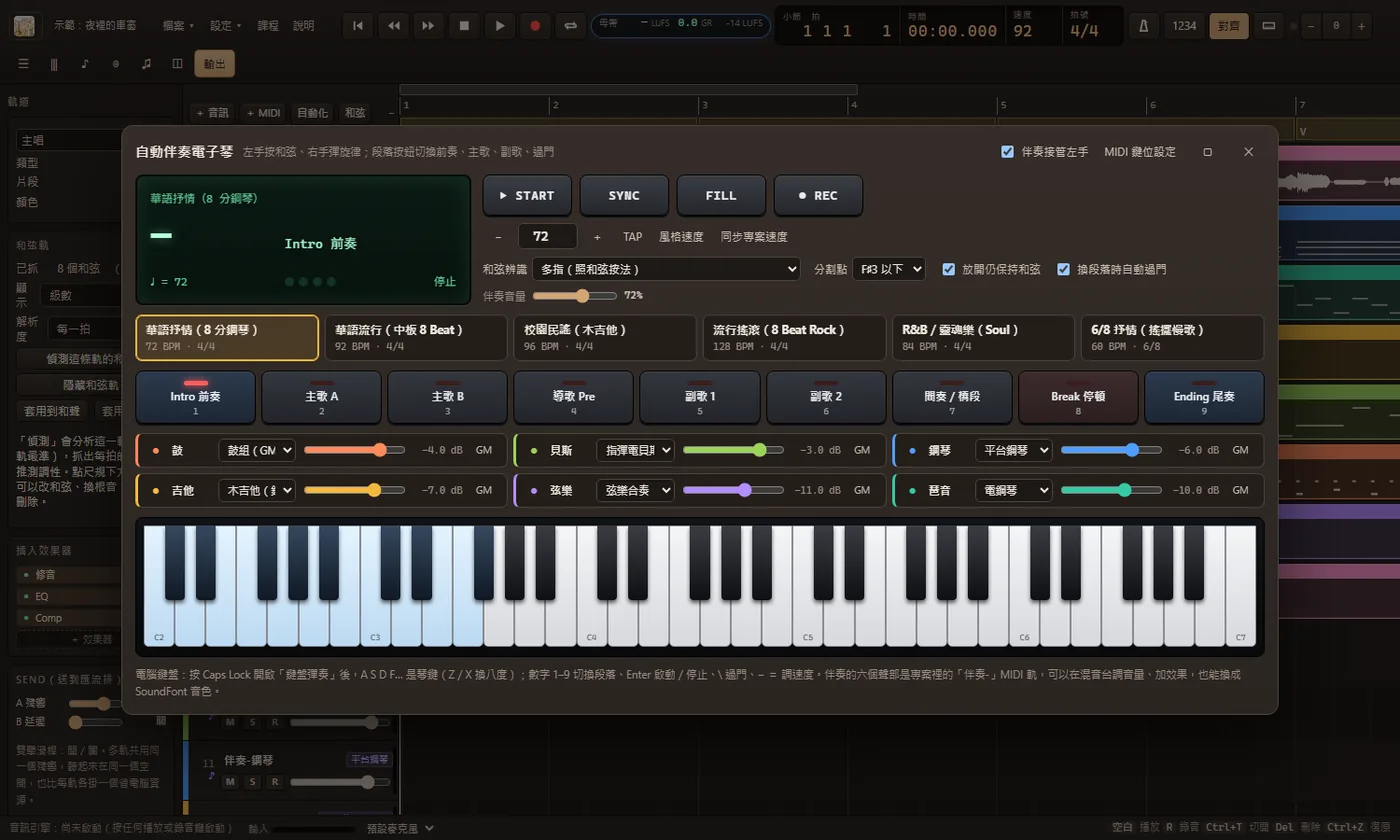
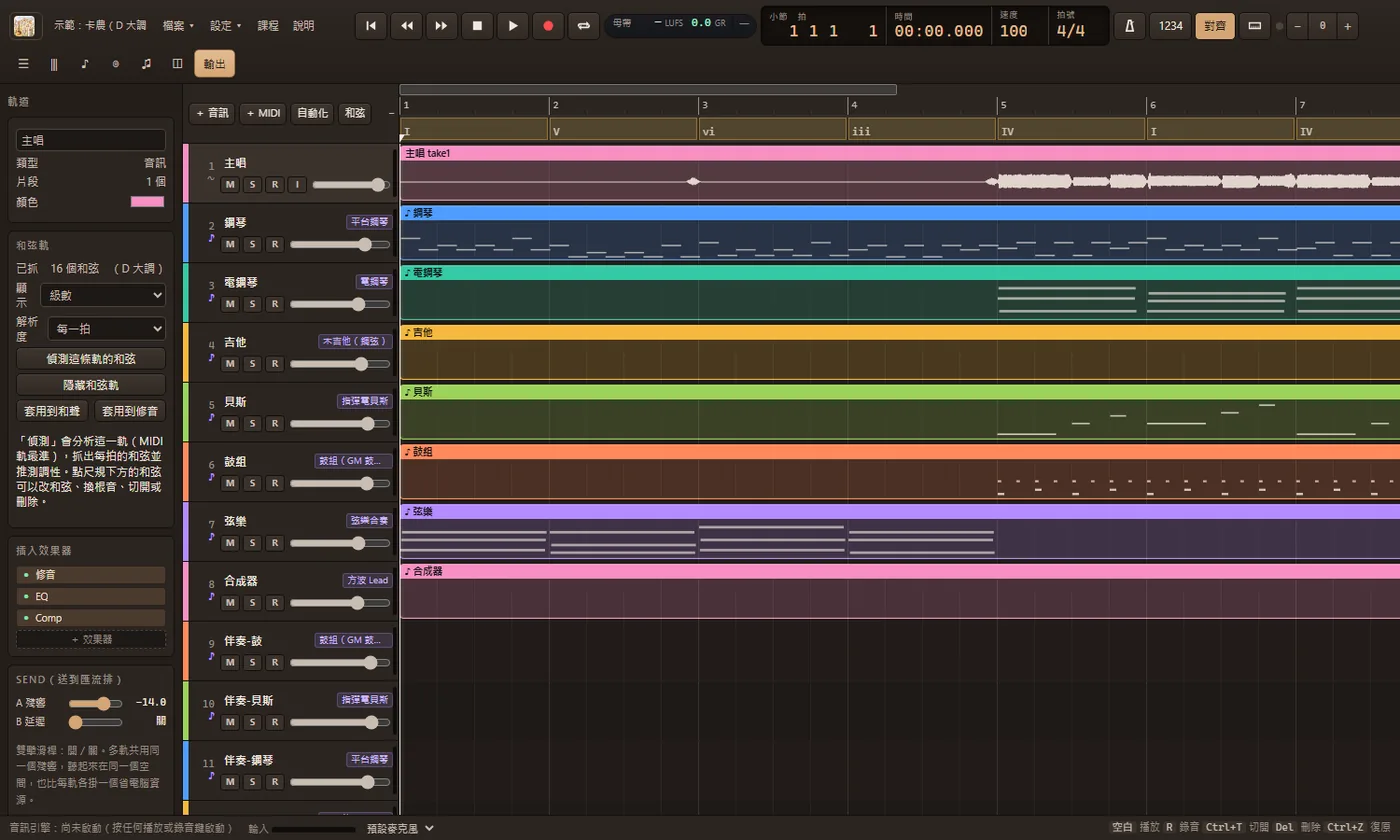
feat(daw): 示範曲改成卡農（公有領域）＋無詞人聲
- 和聲與低音取自 Pachelbel《Canon in D》（約 1680，公有領域）：
  D–A–Bm–F#m–G–D–G–A（卡農進行），16 小節、100 BPM
- 人聲唱固定低音動機往上兩個八度（D5 A4 B4 F#4 G4 D5 G4 A4）的無詞哼唱，
  沒有轉錄任何受保護的編曲或歌詞
- 編曲分四段：前奏（鋼琴分解＋弦樂）→ 主歌（人聲、貝斯、鼓）→
  副歌（吉他刷弦、合成器、16 分 hi-hat）→ 尾奏（收掉鼓與貝斯）
- 8 軌：主唱、鋼琴、電鋼琴、吉他、貝斯、鼓、弦樂、合成器；鼓與貝斯各掛壓縮
- makeVocalBuffer 可接受 melody spec（不傳就沿用原本的五聲旋律）
- 課程第 1、11 堂的示範說明與 8 張主圖同步更新

diff --git a/daw-studio/js/demo-project.js b/daw-studio/js/demo-project.js
@@ -30,24 +30,38 @@ function formantCoef(F, BW) {
   return { a0: 1 - b1 - b2, b1, b2 };
 }
 
-export function makeVocalBuffer(bpm) {
-  const beat = 60 / bpm, len = Math.floor(SR * beat * 4 * 8);
+// spec（可省略）：{ bars, notes:[{ t:拍, d:拍, midi, vowel?, cons? }] }
+// 省略時用原本的 Am–F–C–G 五聲旋律；卡農示範曲會傳自己的旋律進來。
+export function makeVocalBuffer(bpm, spec) {
+  const BARS = spec && spec.bars ? spec.bars : 8;
+  const beat = 60 / bpm, len = Math.floor(SR * beat * 4 * BARS);
   const b = new AudioBuffer({ numberOfChannels: 1, length: len, sampleRate: SR });
   const d = b.getChannelData(0);
 
-  // Am – F – C – G，每個和弦兩小節；旋律用五聲音階
-  const scale = [220, 261.63, 293.66, 329.63, 392, 440];
   const notes = [];
-  for (let bar = 0; bar < 8; bar++) {
-    for (let k = 0; k < 4; k++) {
-      const idx = bar * 4 + k;
-      notes.push({
-        t: (bar * 4 + k + (k === 2 ? 0.5 : 0)) * beat,
-        d: (k === 3 ? 1.4 : 0.9) * beat,
-        f: scale[(bar * 2 + k * 3) % scale.length],
-        vowel: 'aeoiuaoe'[idx % 8],
-        cons: ['m', '', 's', 't', 'n', '', 'sh', 'k'][idx % 8],
-      });
+  if (spec && Array.isArray(spec.notes) && spec.notes.length) {
+    // 指定的旋律（例如卡農的低音動機）：無詞哼唱，只用母音
+    spec.notes.forEach((m, idx) => notes.push({
+      t: m.t * beat,
+      d: m.d * beat,
+      f: 440 * Math.pow(2, (m.midi - 69) / 12),
+      vowel: m.vowel || 'aoeiu'[idx % 5],
+      cons: m.cons || '',
+    }));
+  } else {
+    // Am – F – C – G，每個和弦兩小節；旋律用五聲音階
+    const scale = [220, 261.63, 293.66, 329.63, 392, 440];
+    for (let bar = 0; bar < BARS; bar++) {
+      for (let k = 0; k < 4; k++) {
+        const idx = bar * 4 + k;
+        notes.push({
+          t: (bar * 4 + k + (k === 2 ? 0.5 : 0)) * beat,
+          d: (k === 3 ? 1.4 : 0.9) * beat,
+          f: scale[(bar * 2 + k * 3) % scale.length],
+          vowel: 'aeoiuaoe'[idx % 8],
+          cons: ['m', '', 's', 't', 'n', '', 'sh', 'k'][idx % 8],
+        });
+      }
     }
   }
   // 故意唱高 30 音分：修音單元需要「有東西可修」
@@ -65,7 +79,7 @@ export function makeVocalBuffer(bpm) {
     if (!n.cons) continue;
     events.push({ t: Math.max(0, n.t - CONS_DUR[n.cons]), dur: CONS_DUR[n.cons], kind: n.cons });
   }
-  for (let bar = 2; bar < 8; bar += 2) {           // 兩小節吸一次氣
+  for (let bar = 2; bar < BARS; bar += 2) {         // 兩小節吸一次氣
     const t = bar * 4 * beat - 0.2;
     if (t > 0) events.push({ t, dur: 0.22, kind: 'breath' });
   }
@@ -187,154 +201,158 @@ const chordNotes = (root, ivs, oct = 4) => ivs.map(iv => 12 * oct + ((root + iv)
 const hum = (v, amt = 6) => Math.max(1, Math.min(127, Math.round(v + (Math.random() * 2 - 1) * amt)));
 const hurry = (t, amt = 0.02) => Math.max(0, t + (Math.random() * 2 - 1) * amt);
 
-// ── 編曲骨架 ────────────────────────────────────────────────
-// 16 小節、92 BPM、C 大調。和弦是 Am–F–C–G（vi–IV–I–V，俗稱「小室進行」），
-// 這是華語與日本流行歌最常見的進行之一。旋律、節奏與配器全部原創、由程式產生，
-// 沒有引用任何現有歌曲，所以可以自由使用與授權。
-//
-//   前奏 1–4：電鋼琴分解和弦 + 弦樂 pad
-//   主歌 5–8：鼓與貝斯進來，鋼琴補和聲
-//   副歌 9–12：加吉他刷弦、合成器主旋律，鼓變 16 分音符
-//   尾奏 13–16：抽掉貝斯，只留鋼琴與弦樂
-export const DEMO_PROG = [[9, 'min'], [5, 'maj'], [0, 'maj'], [7, 'maj']];
-const chordAtBeat = beat => DEMO_PROG[Math.floor(beat / 8) % 4];
+// ── 卡農示範曲 ──────────────────────────────────────────────
+// 和聲與低音取自 Pachelbel《Canon in D》（約 1680，已進入公有領域）：
+//   D – A – Bm – F#m – G – D – G – A
+// 這是市面上最常被拿來練編曲的進行之一（卡農進行）。人聲唱的是這段低音動機
+// 往上兩個八度的無詞哼唱版本；節奏、配器、鼓與貝斯的句子都是原創。
+// 沒有轉錄任何受保護的編曲或歌詞，可以自由使用。
+export const DEMO_PROG = [
+  [2, 'maj'], [9, 'maj'], [11, 'min'], [6, 'min'],
+  [7, 'maj'], [2, 'maj'], [7, 'maj'], [9, 'maj'],
+];
+// 低音的根音（D3 A2 B2 F#2 G2 D3 G2 A2）＝ 卡農的固定低音
+const GROUND = [50, 45, 47, 42, 43, 50, 43, 45];
 const ivsOf = q => (q === 'min' ? [0, 3, 7] : [0, 4, 7]);
 const BARS = 16;
 const LEN = BARS * 4;
 
-function buildDemo() {
+const chordAtBar = bar => DEMO_PROG[bar % 8];
+const groundOf = bar => GROUND[bar % 8];
+
+function buildCanon() {
   const piano = [], epiano = [], guitar = [], bass = [], drums = [], strings = [], lead = [];
 
   for (let bar = 0; bar < BARS; bar++) {
     const b0 = bar * 4;
-    const [root, q] = chordAtBeat(b0);
+    const [root, q] = chordAtBar(bar);
     const iv = ivsOf(q);
-    const chorus = bar >= 8 && bar < 12;
+    const gr = groundOf(bar);
+    const intro = bar < 4, verse = bar >= 4 && bar < 8, chorus = bar >= 8 && bar < 12, outro = bar >= 12;
 
-    // 鋼琴：每小節一次塊狀和弦（擺在中央 C 附近，聲部才不會跳）
-    const pv = chordNotes(root, iv, 3).map(n => (n < 48 ? n + 12 : n));
-    if (bar >= 4) {
-      pv.forEach((n, i) => piano.push({ p: n, t: hurry(b0 + 0.01 * i), d: 3.6, v: hum(chorus ? 82 : 72) }));
-    }
-    if (bar >= 12) pv.forEach(n => piano.push({ p: n + 12, t: hurry(b0 + 2), d: 1.8, v: hum(58) }));
-
-    // 電鋼琴：八分音符分解（前奏的主角）
-    const seq = [0, 1, 2, 1, 0, 2, 1, 2];
-    seq.forEach((k, i) => {
-      const n = chordNotes(root, iv, 4)[k % 3] + (i === 7 ? 12 : 0);
-      epiano.push({ p: n, t: hurry(b0 + i * 0.5, 0.015), d: 0.45, v: hum(bar < 4 ? 62 : 54, 5) });
+    // 鋼琴：八分音符分解和弦（卡農最經典的織體）
+    const arp = [0, 1, 2, 1, 2, 1, 0, 1];   // 0=根音 1=五度 2=三度（依和弦性質）
+    arp.forEach((k, i) => {
+      const tones = chordNotes(root, iv, 4);
+      const n = (k === 0 ? gr + 12 : tones[k]);
+      piano.push({ p: n, t: hurry(b0 + i * 0.5, 0.012), d: 0.55, v: hum(intro || outro ? 62 : 70, 5) });
     });
+    // 尾奏：鋼琴加一層高八度，讓收尾更亮
+    if (outro) chordNotes(root, iv, 5).forEach((n, i) => piano.push({ p: n, t: hurry(b0 + 1 + i * 0.5), d: 0.9, v: hum(52, 4) }));
 
-    // 吉他：副歌刷弦（每兩拍一下，弦之間錯開幾毫秒）
+    // 電鋼琴：主歌的長音和聲（墊在鋼琴後面）
+    if (verse) chordNotes(root, iv, 4).forEach((n, i) => epiano.push({ p: n, t: b0 + i * 0.02, d: 3.7, v: hum(52, 4) }));
+
+    // 吉他：副歌刷弦
     if (chorus) {
       for (let k = 0; k < 2; k++) {
         chordNotes(root, iv, 3).concat([root + 48]).forEach((n, i) => {
           const p = n < 45 ? n + 12 : n;
-          guitar.push({ p, t: hurry(b0 + k * 2 + i * 0.035, 0.01), d: 1.2, v: hum(k === 0 ? 74 : 66) });
+          guitar.push({ p, t: hurry(b0 + k * 2 + i * 0.035, 0.01), d: 1.2, v: hum(k === 0 ? 70 : 62) });
         });
       }
     }
 
-    // 貝斯：根音在 1、八度在 2.5、五度在 3.5（流行歌最常見的走法）
-    if (bar >= 4 && bar < 12) {
-      const r = 36 + root;
-      bass.push({ p: r, t: hurry(b0), d: 1.3, v: hum(96) });
-      bass.push({ p: r + 12, t: hurry(b0 + 1.5), d: 0.5, v: hum(80) });
-      bass.push({ p: r + 7, t: hurry(b0 + 2.5), d: 0.6, v: hum(86) });
-      bass.push({ p: r, t: hurry(b0 + 3.5), d: 0.4, v: hum(78) });
+    // 貝斯：跟卡農的固定低音（根音長音＋五度、八度裝飾）
+    if (!intro) {
+      bass.push({ p: gr, t: hurry(b0), d: 1.6, v: hum(94) });
+      bass.push({ p: gr + 7, t: hurry(b0 + 2), d: 0.5, v: hum(80) });
+      bass.push({ p: gr + 12, t: hurry(b0 + 3), d: 0.45, v: hum(84) });
     }
 
-    // 鼓：主歌 8 分音符 hi-hat、副歌 16 分；第 8、12 小節打過門
-    if (bar >= 4) {
-      drums.push({ p: 36, t: b0, d: 0.2, v: hum(112) });
-      drums.push({ p: 36, t: b0 + 2, d: 0.2, v: hum(106) });
-      drums.push({ p: 38, t: b0 + 1, d: 0.2, v: hum(104) });
-      drums.push({ p: 38, t: b0 + 3, d: 0.2, v: hum(102) });
-      if (bar >= 12) drums.push({ p: 36, t: b0 + 2.5, d: 0.2, v: hum(92) });
+    // 鼓：主歌 8 分 hi-hat、副歌 16 分；第 8、12 小節過門
+    if (verse || chorus) {
+      drums.push({ p: 36, t: b0, d: 0.2, v: hum(110) });
+      drums.push({ p: 36, t: b0 + 2, d: 0.2, v: hum(104) });
+      drums.push({ p: 38, t: b0 + 1, d: 0.2, v: hum(102) });
+      drums.push({ p: 38, t: b0 + 3, d: 0.2, v: hum(100) });
       const hats = chorus ? 16 : 8;
-      for (let k = 0; k < hats; k++) {
-        drums.push({ p: 42, t: b0 + k * (4 / hats), d: 0.12, v: hum(k % 2 ? 62 : 76, 5) });
-      }
+      for (let k = 0; k < hats; k++) drums.push({ p: 42, t: b0 + k * (4 / hats), d: 0.12, v: hum(k % 2 ? 60 : 74, 5) });
       if (bar === 7 || bar === 11) {
         for (let k = 0; k < 8; k++) drums.push({ p: 38, t: b0 + 2 + k * 0.25, d: 0.1, v: hum(70 + k * 6, 4) });
       }
-      if (bar === 11) drums.push({ p: 49, t: b0 + 3.75, d: 0.3, v: 108 });   // 副歌結束的鈸
+      if (bar === 11) drums.push({ p: 49, t: b0 + 3.75, d: 0.3, v: 108 });
     }
 
     // 弦樂：前奏與副歌的長音 pad
-    if (bar < 4 || chorus) {
-      chordNotes(root, iv, 4).forEach((n, i) => strings.push({ p: n, t: b0 + i * 0.02, d: 3.9, v: hum(bar < 4 ? 52 : 62, 4) }));
-    }
+    if (intro || chorus) chordNotes(root, iv, 4).forEach((n, i) => strings.push({ p: n, t: b0 + i * 0.02, d: 3.9, v: hum(intro ? 50 : 60, 4) }));
 
-    // 合成器主旋律：副歌用長音補高音，把副歌撐起來
+    // 合成器：副歌把旋律加高八度，撐起整個副歌
     if (chorus) {
-      const top = chordNotes(root, iv, 5)[0];
-      lead.push({ p: top, t: b0, d: 1.8, v: hum(74) });
-      lead.push({ p: top + 7, t: b0 + 2, d: 1.6, v: hum(68) });
+      const top = groundOf(bar) + 36;
+      lead.push({ p: top, t: b0, d: 1.8, v: hum(72) });
+      lead.push({ p: top, t: b0 + 2, d: 1.8, v: hum(66) });
     }
   }
   return { piano, epiano, guitar, bass, drums, strings, lead };
 }
 
+// 人聲：卡農低音動機往上兩個八度（D5 A4 B4 F#4 G4 D5 G4 A4），每小節「長—短—短」
+function canonMelody() {
+  const notes = [];
+  for (let bar = 4; bar < 12; bar++) {
+    const p = groundOf(bar) + 24;
+    notes.push({ t: bar * 4, d: 2, midi: p, vowel: 'a' });
+    notes.push({ t: bar * 4 + 2, d: 1, midi: p, vowel: 'o' });
+    notes.push({ t: bar * 4 + 3, d: 1, midi: p, vowel: 'a' });
+  }
+  return notes;
+}
+
 export function seedDemo() {
   const p = store.project;
-  p.name = '示範：夜裡的車窗';
-  p.bpm = 92; p.sigNum = 4; p.sigDen = 4;
+  p.name = '示範：卡農（D 大調）';
+  p.bpm = 100; p.sigNum = 4; p.sigDen = 4;
   p.tracks.length = 0;
   store.buffers.clear(); store.bufferMeta.clear();
 
-  // ── 主唱：兩次錄音（第二次是另一版 Take，副歌換過去）─────────
+  // ── 主唱：無詞哼唱卡農的低音動機（第 5–12 小節）────────────
   const vocal = newTrack(0, 'audio');
   vocal.name = '主唱'; vocal.color = '#f78fc3';
-  for (const [i, atBeat] of [[0, 0], [1, 32]]) {
-    const buf = makeVocalBuffer(p.bpm);
-    const bid = uid('buf');
-    store.buffers.set(bid, buf);
-    store.bufferMeta.set(bid, { name: `主唱 take${i + 1}.wav`, peaks: computePeaks(buf) });
-    vocal.clips.push({
-      id: uid('clip'), bufferId: bid, name: `主唱 take${i + 1}`,
-      start: atBeat * 60 / p.bpm, duration: buf.duration, offset: 0,
-      gainDb: 0, fadeIn: 0.01, fadeOut: 0.9,
-    });
-  }
-  const tune = newFx('tune'); tune.params.key = 0; tune.params.scale = 1; tune.params.retune = 45;
+  const buf = makeVocalBuffer(p.bpm, { bars: BARS, notes: canonMelody() });
+  const bid = uid('buf');
+  store.buffers.set(bid, buf);
+  store.bufferMeta.set(bid, { name: '主唱 take1.wav', peaks: computePeaks(buf) });
+  vocal.clips.push({
+    id: uid('clip'), bufferId: bid, name: '主唱 take1',
+    start: 0, duration: buf.duration, offset: 0, gainDb: 0, fadeIn: 0.01, fadeOut: 0.9,
+  });
+  const tune = newFx('tune'); tune.params.key = 2; tune.params.scale = 0; tune.params.retune = 45;
   const eq = newFx('eq'); eq.params.bands[0].on = true; eq.params.bands[0].freq = 90;
   const comp = newFx('comp'); comp.params.threshold = -20; comp.params.ratio = 3; comp.params.makeup = 3;
   vocal.inserts.push(tune, eq, comp);
   vocal.sends = [-14, -60];
   p.tracks.push(vocal);
 
-  // ── 樂器軌（經典流行編制）──────────────────────────────────
-  const parts = buildDemo();
+  // ── 樂器軌（卡農的經典編制）────────────────────────────────
+  const parts = buildCanon();
   const add = (name, color, inst, notes, vol) => p.tracks.push(midiTrack(p.tracks.length, name, color, inst, notes, vol));
   add('鋼琴', '#4f9dff', 'piano', parts.piano, -8);
-  add('電鋼琴', '#35c9a5', 'epiano', parts.epiano, -12);
+  add('電鋼琴', '#35c9a5', 'epiano', parts.epiano, -13);
   add('吉他', '#f5b83d', 'aguitar', parts.guitar, -11);
   add('貝斯', '#9bd35a', 'fbass', parts.bass, -6);
   add('鼓組', '#ff8a5c', 'drums', parts.drums, -7);
-  add('弦樂', '#b58bff', 'strings', parts.strings, -14);
-  add('合成器', '#f78fc3', 'lead', parts.lead, -13);
+  add('弦樂', '#b58bff', 'strings', parts.strings, -13);
+  add('合成器', '#f78fc3', 'lead', parts.lead, -14);
 
-  // 鼓與貝斯掛一點壓縮：流行歌「黏」起來的關鍵
-  const drumTrack = p.tracks.find(t => t.name === '鼓組');
+  // 鼓與貝斯各掛一顆壓縮：流行歌「黏」起來的關鍵
   const drumComp = newFx('comp');
   drumComp.params.threshold = -18; drumComp.params.ratio = 3; drumComp.params.attack = 12;
   drumComp.params.release = 120; drumComp.params.makeup = 2.5;
-  drumTrack.inserts.push(drumComp);
-  const bassTrack = p.tracks.find(t => t.name === '貝斯');
+  p.tracks.find(t => t.name === '鼓組').inserts.push(drumComp);
   const bassComp = newFx('comp');
   bassComp.params.threshold = -22; bassComp.params.ratio = 3.5; bassComp.params.attack = 8;
   bassComp.params.release = 140; bassComp.params.makeup = 3;
-  bassTrack.inserts.push(bassComp);
+  p.tracks.find(t => t.name === '貝斯').inserts.push(bassComp);
   p.tracks.find(t => t.name === '弦樂').sends = [-11, -60];
 
-  // ── 和弦軌：小室進行 vi–IV–I–V ─────────────────────────────
+  // ── 和弦軌：卡農進行 ──────────────────────────────────────
   p.chords = [];
-  for (let i = 0; i < BARS / 2; i++) {
-    const [root, q] = DEMO_PROG[i % 4];
-    p.chords.push({ t: i * 8, d: 8, root, q });
+  for (let bar = 0; bar < BARS; bar++) {
+    const [root0, q0] = chordAtBar(bar);
+    p.chords.push({ t: bar * 4, d: 4, root: root0, q: q0 });
   }
-  p.chordKey = { key: 0, minor: false };
+  p.chordKey = { key: 2, minor: false };
   p.chordView = 1;
   p.showChords = true;
 

diff --git a/content/dawcourse/01.md b/content/dawcourse/01.md
@@ -47,5 +47,4 @@ image: /assets/daw-course/course-overview.webp
 3. 按 **X** 打開混音台、再按一次關掉；按 **P** 打開鋼琴捲簾。
 
 <div class="daw-tip">
-<b>課程用的示範專案</b>：在網址後面加上 <code>?demo=1</code>（例如 <code>/tools/daw/?demo=1</code>）會載入一段示範歌曲「夜裡的車窗」：16 小節、92 BPM，用最常見的 Am–F–C–G（vi–IV–I–V）進行，八條軌分別是主唱（兩次 Take）、鋼琴、電鋼琴、吉他、貝斯、鼓、弦樂與合成器，還有現成的和弦軌與效果器。旋律與編曲全部由程式原創產生，沒有引用任何現有歌曲，可以自由使用。
-</div>
+<b>課程用的示範專案</b>：在網址後面加上 <code>?demo=1</code>（例如 <code>/tools/daw/?demo=1</code>）會載入示範曲「卡農（D 大調）」：16 小節、100 BPM，和聲與低音取自 Pachelbel 的《Canon in D》（約 1680 年，已進入公有領域），也就是市面上最常拿來練編曲的「卡農進行」D–A–Bm–F#m–G–D–G–A。八條軌分別是主唱（無詞哼唱）、鋼琴、電鋼琴、吉他、貝斯、鼓、弦樂與合成器；旋律節奏與配器都是原創，沒有轉錄任何受保護的編曲或歌詞，可以自由使用。</div>

diff --git a/content/dawcourse/11.md b/content/dawcourse/11.md
@@ -10,6 +10,8 @@ image: /assets/daw-course/course-chords.webp
 
 ## 抓和弦
 
+![圖：上：小節尺下方的和弦軌顯示級數 I／vi／IV／V。下：檢閱器的和弦區塊，按「偵測這條軌的和弦」就會自動抓。](/assets/daw-course/daw-11-chords.webp)
+
 1. 選一條**最能代表和聲**的軌（鋼琴、吉他或貝斯的 MIDI 軌最準；音訊軌也可以，但會比較糊）。
 2. 檢閱器 → 和弦軌 → 選解析度（每拍／每半拍／每兩拍／每小節）→「偵測這條軌的和弦」。
 3. 程式會分析每個時間格的音高分布，推測調性，再用「換和弦要付代價」的平滑方式把零碎判斷接成一段一段。
@@ -39,4 +41,4 @@ image: /assets/daw-course/course-chords.webp
 
 ## 現在就做
 
-用示範專案偵測一次和弦，切到「首調」看看副歌的進行，再把 `vi–IV–I–V` 唸出來跟著唱。
+用示範專案偵測一次和弦，切到「級數」看看卡農的進行：`I–V–vi–iii–IV–I–IV–V`（D–A–Bm–F#m–G–D–G–A），再把低音跟著哼一次。
